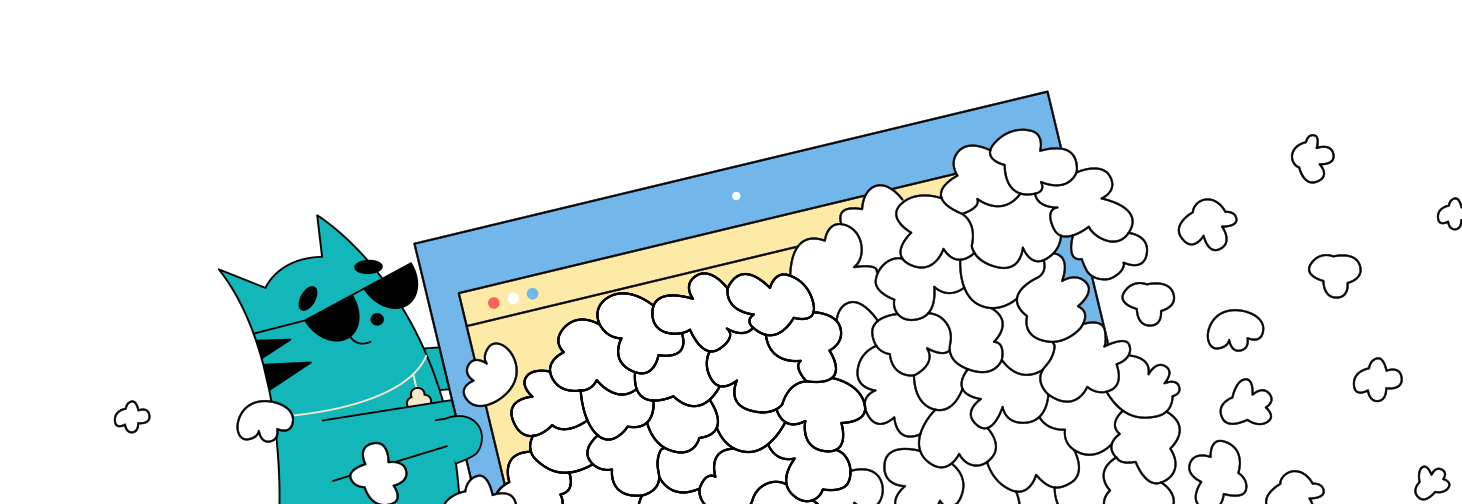
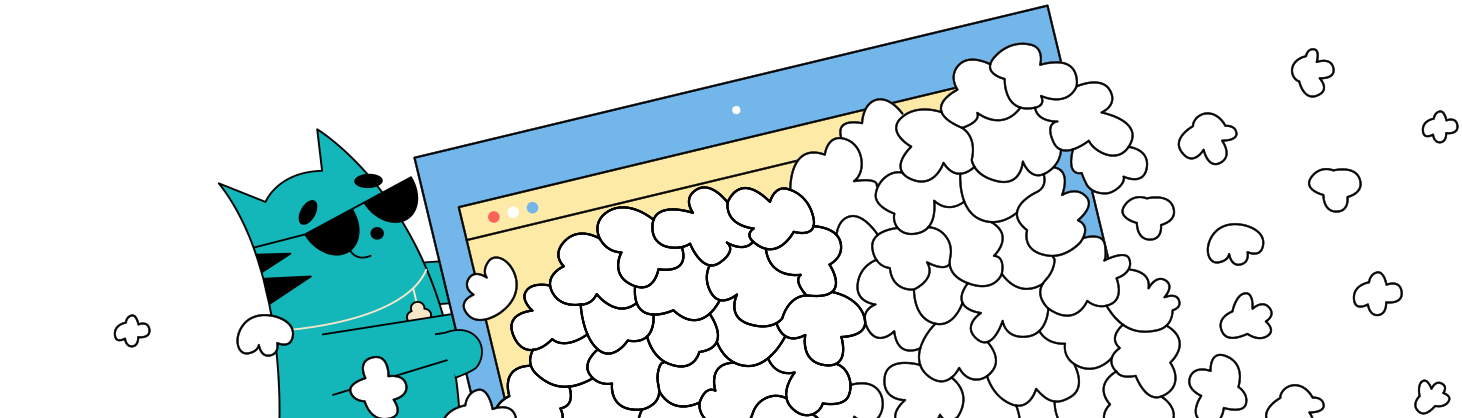
updated staking interface

diff --git a/packages/app/pages/staking/[id].tsx b/packages/app/pages/staking/[id].tsx
@@ -272,7 +272,7 @@ export default function stake(): JSX.Element {
                   </div>
                 </div>
               </div>
-              <div className="mt-8 pt-12 pb-10 px-6 border border-gray-300 rounded-xl">
+              <div className="mt-8 py-14 px-6 border border-gray-300 rounded-xl">
                 <div className="flex flex-col">
                   {stakingInfo && (
                     <TokenInput
@@ -310,7 +310,7 @@ export default function stake(): JSX.Element {
                   </Switch.Group>
                 </div>
                 {stakingInfo && (
-                  <div className="mt-12 w-96 mx-auto">
+                  <div className="mt-16 w-96 mx-auto">
                     {account ? (
                       <>
                         {withdraw ? (
@@ -379,17 +379,16 @@ export default function stake(): JSX.Element {
                         />
                       </div>
                     </div>
-                    <div className="bg-white rounded-md border border-gray-300 w-full px-4 py-5">
+                    <div className="bg-white rounded-md border border-gray-300 w-full">
                       <div className="flex flex-row items-center justify-between">
-                        <div className="flex flex-row items-center">
-                          <div className="ml-4">
-                            <p className="text-base text-gray-500">
-                              Amount Claimable
-                            </p>
-                            <h3 className="text-xl font-medium text-gray-800">
-                              {balances.earned.toLocaleString()} POP
-                            </h3>
-                          </div>
+                        <div className="relative h-60 w-full pt-4">
+                          <p className="text-xl font-medium ml-12 mt-4">
+                            Happy Staking
+                          </p>
+                          <img
+                            src="/images/catPopVault.png"
+                            className="absolute h-52 w-9/12 right-10 bottom-0"
+                          />
                         </div>
                         <div></div>
                       </div>
@@ -399,10 +398,6 @@ export default function stake(): JSX.Element {
               </div>
             </div>
           </div>
-          <img
-            src="/images/catPopVault.png"
-            className="w-9/12 absolute bottom-0 right-0"
-          />
         </div>
       </div>
     </>

diff --git a/packages/app/components/StakeCard.tsx b/packages/app/components/StakeCard.tsx
@@ -14,7 +14,7 @@ export default function StakeCard({
   url,
 }: StakeCardProps): JSX.Element {
   return (
-    <div className="bg-white rounded-xl border border-gray-200 shadow-xl w-full mr-4 px-8 py-8">
+    <div className="bg-white rounded-xl border border-gray-200 shadow-md w-full mr-4 px-8 py-8">
       <div className="flex flex-row items-center justify-between">
         <div className="flex flex-row items-center">
           <TokenIcon token={tokenName} />
@@ -32,19 +32,25 @@ export default function StakeCard({
       </div>
       <div className="flex flex-row items-center mt-6 w-2/3 justify-between">
         <div>
-          <p className="text-gray-500 font-medium uppercase">Est. APY</p>
+          <p className="text-gray-500 text-base font-medium uppercase">
+            Est. APY
+          </p>
           <p className="text-green-600 text-xl font-medium">
             {stakingStats.apy.toLocaleString()} %
           </p>
         </div>
         <div>
-          <p className="text-gray-500 font-medium uppercase">Total Staked</p>
+          <p className="text-gray-500 text-base font-medium uppercase">
+            Total Staked
+          </p>
           <p className="text-gray-800 text-xl font-medium">
             {stakingStats.totalStake.toLocaleString()}
           </p>
         </div>
         <div>
-          <p className="text-gray-500 font-medium uppercase">Token Emissions</p>
+          <p className="text-gray-500 text-base font-medium uppercase">
+            Token Emissions
+          </p>
           <p className="text-gray-800 text-xl font-medium">
             {stakingStats.tokenEmission.toLocaleString()} POP / day
           </p>

diff --git a/packages/app/components/StatInfoCard.tsx b/packages/app/components/StatInfoCard.tsx
@@ -14,7 +14,10 @@ export default function StatInfoCard({
   info,
 }: StatInfoCardProps): JSX.Element {
   return (
-    <div className="bg-white rounded-md border border-gray-300 w-full px-4 py-5">
+    <div
+      className="bg-white rounded-md border border-gray-300 w-full px-4 py-5"
+      //style={{ filter: 'drop-shadow(0 8px 5px rgba(0, 0, 0, 0.04))' }}
+    >
       <div className="flex flex-row items-center justify-between">
         <div className="flex flex-row items-center">
           <CardIcon

diff --git a/packages/app/pages/staking/index.tsx b/packages/app/pages/staking/index.tsx
@@ -108,7 +108,7 @@ export default function index(): JSX.Element {
                 Earn more income staking your crypto with us
               </p>
             </div>
-            <div className="bg-primaryLight rounded-xl pt-12 mr-12 mt-12">
+            <div className="bg-primaryLight rounded-xl pt-10 mr-12 mt-12">
               <img
                 src="/images/farmerCat.svg"
                 alt="farmcerCat"
